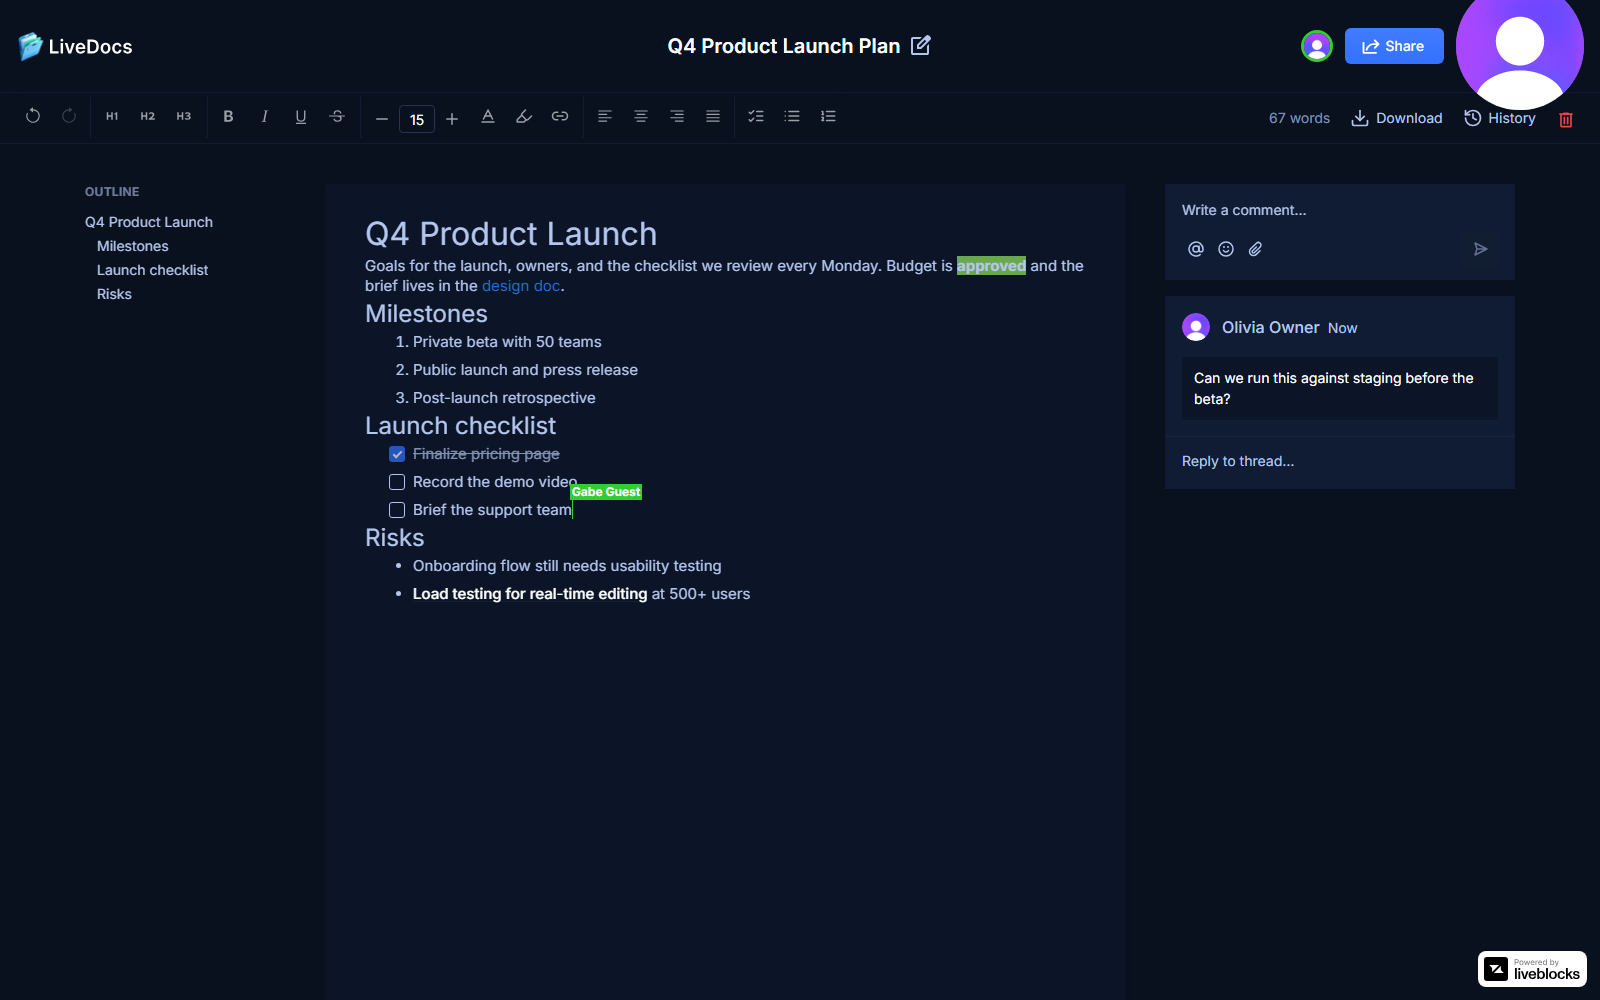
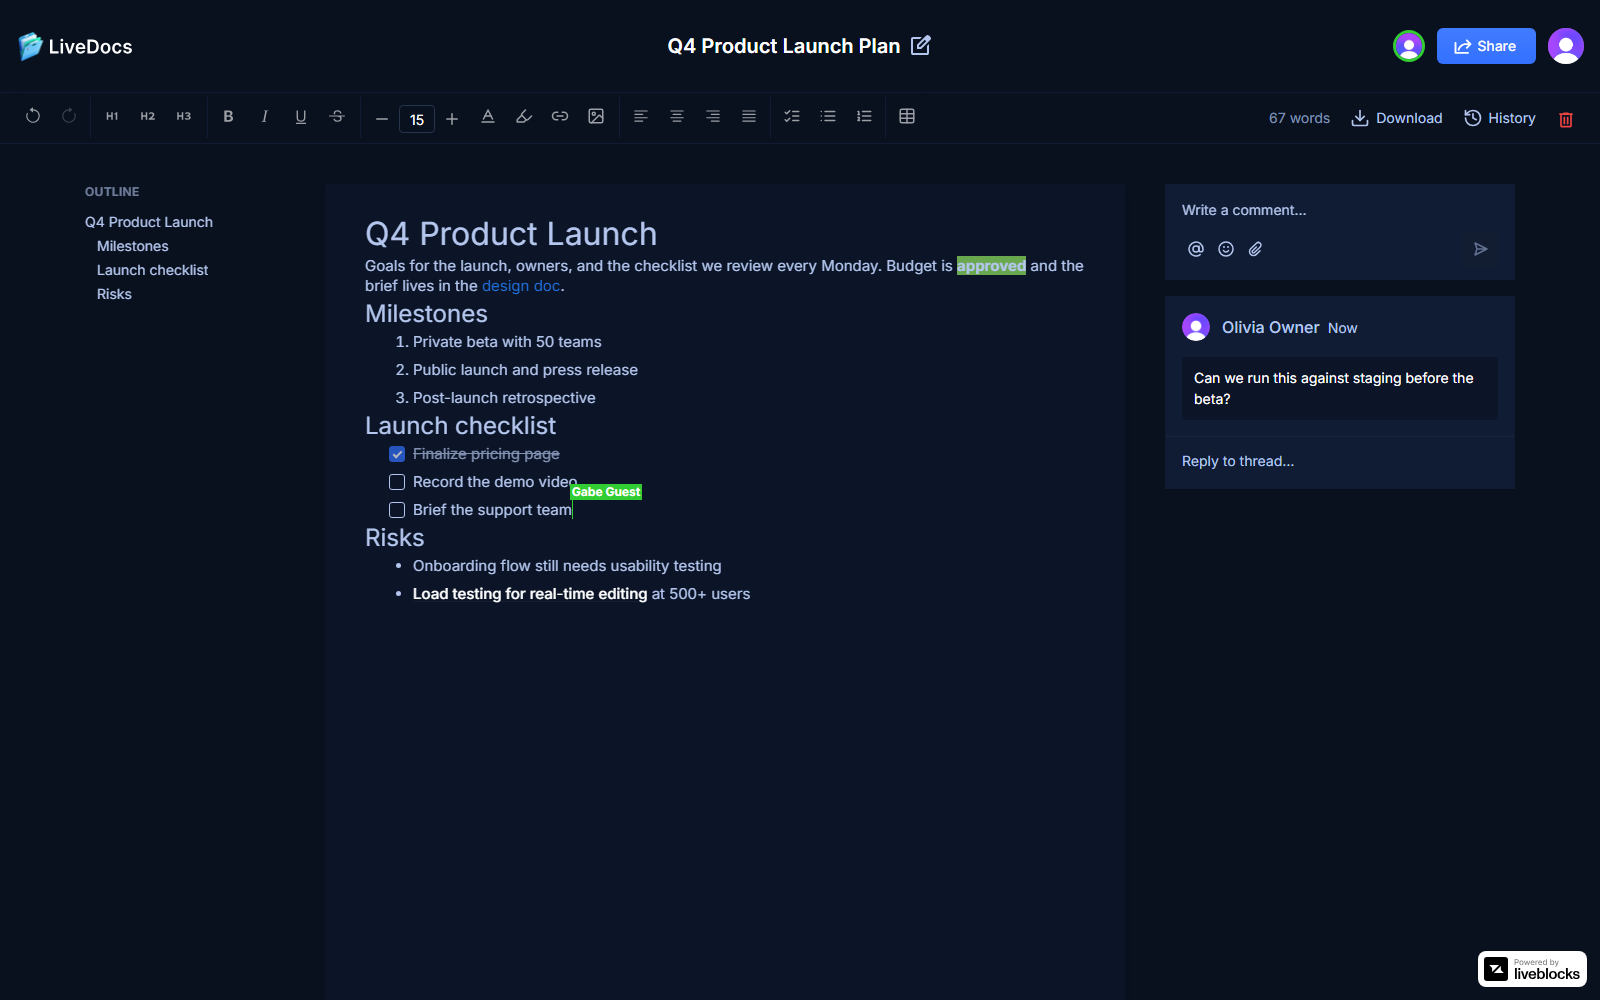
docs: CI badge, tables and images, refreshed screenshots

Changed region(s): [[0.8125, 0.0, 1.0, 0.124]]

diff --git a/README.md b/README.md
@@ -3,6 +3,9 @@
   <br />
   <br />
   <p>
+    <a href="https://github.com/Troy2727/coedit_flow/actions/workflows/ci.yml"><img src="https://github.com/Troy2727/coedit_flow/actions/workflows/ci.yml/badge.svg" alt="CI" /></a>
+  </p>
+  <p>
     <img src="https://img.shields.io/badge/-Next.js_14-black?style=for-the-badge&logoColor=white&logo=nextdotjs&color=000000" alt="Next.js" />
     <img src="https://img.shields.io/badge/-TypeScript-black?style=for-the-badge&logoColor=white&logo=typescript&color=3178C6" alt="TypeScript" />
     <img src="https://img.shields.io/badge/-Tailwind_CSS-black?style=for-the-badge&logoColor=white&logo=tailwindcss&color=06B6D4" alt="Tailwind CSS" />
@@ -52,6 +55,8 @@
 - Headings, bold, italic, underline, strikethrough, and text alignment
 - Font size, text color, and highlight color
 - Bulleted, numbered, and checklist lists (Tab to nest)
+- Tables with insert/delete row and column controls
+- Images by URL with alt text (only `http(s)` sources render)
 - Links with `Ctrl+K`, auto-linking of typed URLs, and blocking of unsafe (`javascript:`) links
 - Markdown shortcuts: `#` headings, `-` bullets, `1.` numbers, `[]` checkboxes, `**bold**`, `[text](url)`
 - Every toolbar button shows its name and keyboard shortcut on hover
@@ -187,8 +192,10 @@ Open [http://localhost:3001](http://localhost:3001).
 
 ```bash
 npx playwright install chromium   # first time only
-npm run test:e2e                  # builds the app and runs 16 end-to-end tests
+npm run test:e2e                  # builds the app and runs 20 end-to-end tests
 ```
+
+GitHub Actions runs the type check and the full end-to-end suite on every pull request and push to `main` (`.github/workflows/ci.yml`).
 
 The tests build the app for production and serve it on port 3002, so they can run while `npm run dev` is using 3001. They create two Clerk test users (`+clerk_test` addresses, so no real email is ever sent) and delete every document they create when they finish.
 
@@ -215,7 +222,7 @@ e2e/                              Playwright end-to-end tests
 
 ## 🗺 Roadmap
 
-- Images and tables in documents
+- Image uploads (images can currently be added by URL)
 - Suggesting mode (tracked changes)
 - AI writing assistant (improve, summarize, translate a selection)
 - Commenter role and ownership transfer
